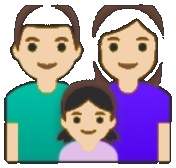
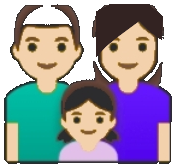
Update emoji memory documentation and assets
Replit-Commit-Author: Agent

Changed region(s): [[0.5398, 0.0, 0.9375, 0.3571]]

diff --git a/.agents/memory/emoji-sprite-transparency.md b/.agents/memory/emoji-sprite-transparency.md
@@ -1,0 +1,17 @@
+---
+name: Screen-captured emoji sprite transparency
+description: Safe transparency handling for emoji artwork extracted from screenshots.
+---
+
+Screen-captured emoji sprites must not be isolated with an aggressive chroma-key
+or flood-fill alone: dark screenshot backgrounds can be close to dark hair,
+and openings in hair can cause the mask to erase real interior artwork. Build
+the outer transparency conservatively, preserve interior hair/body regions,
+and inspect the result against a contrasting light background before shipping.
+
+**Why:** A dark source screenshot hid transparent holes that became obvious when
+the sprites were rendered on the app's light picker surface.
+
+**How to apply:** For future screenshot-derived sprites, validate both the
+transparent asset and a white-background composite before replacing the bundled
+asset.

diff --git a/.agents/memory/MEMORY.md b/.agents/memory/MEMORY.md
@@ -99,3 +99,4 @@
 - [Intrinsic placeholder rendering](intrinsic-placeholder-rendering.md) — placeholders must be clipped intrinsic-width content with edge fades, never ellipsis, and must track one-line rubberband offsets.
 - [Flutter preview build directory](flutter-preview-build-directory.md) — native clean/build can remove build/web; restart the managed preview before debugging a resulting 404 or blank page.
 - [Family emoji skin-tone support](family-emoji-skin-tone-support.md) — gendered family ZWJ glyphs have no standardized skin-tone variants; per-person modifiers can decompose on Android.
+- [Screen-captured emoji transparency](emoji-sprite-transparency.md) — validate screenshot-derived sprites on a contrasting background; aggressive flood-fill can erase dark hair and body pixels.
